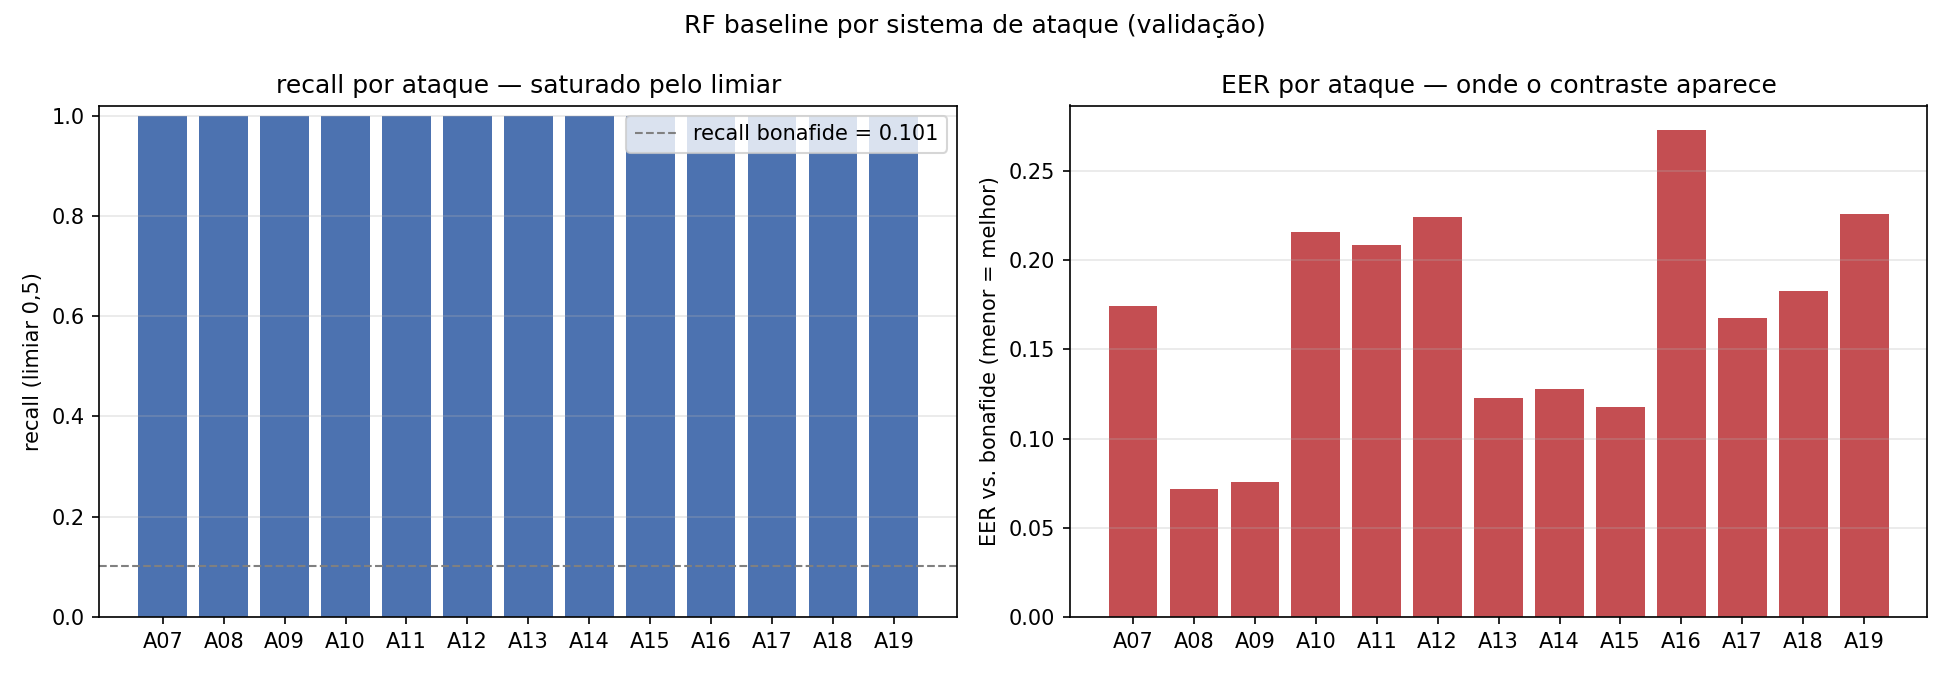
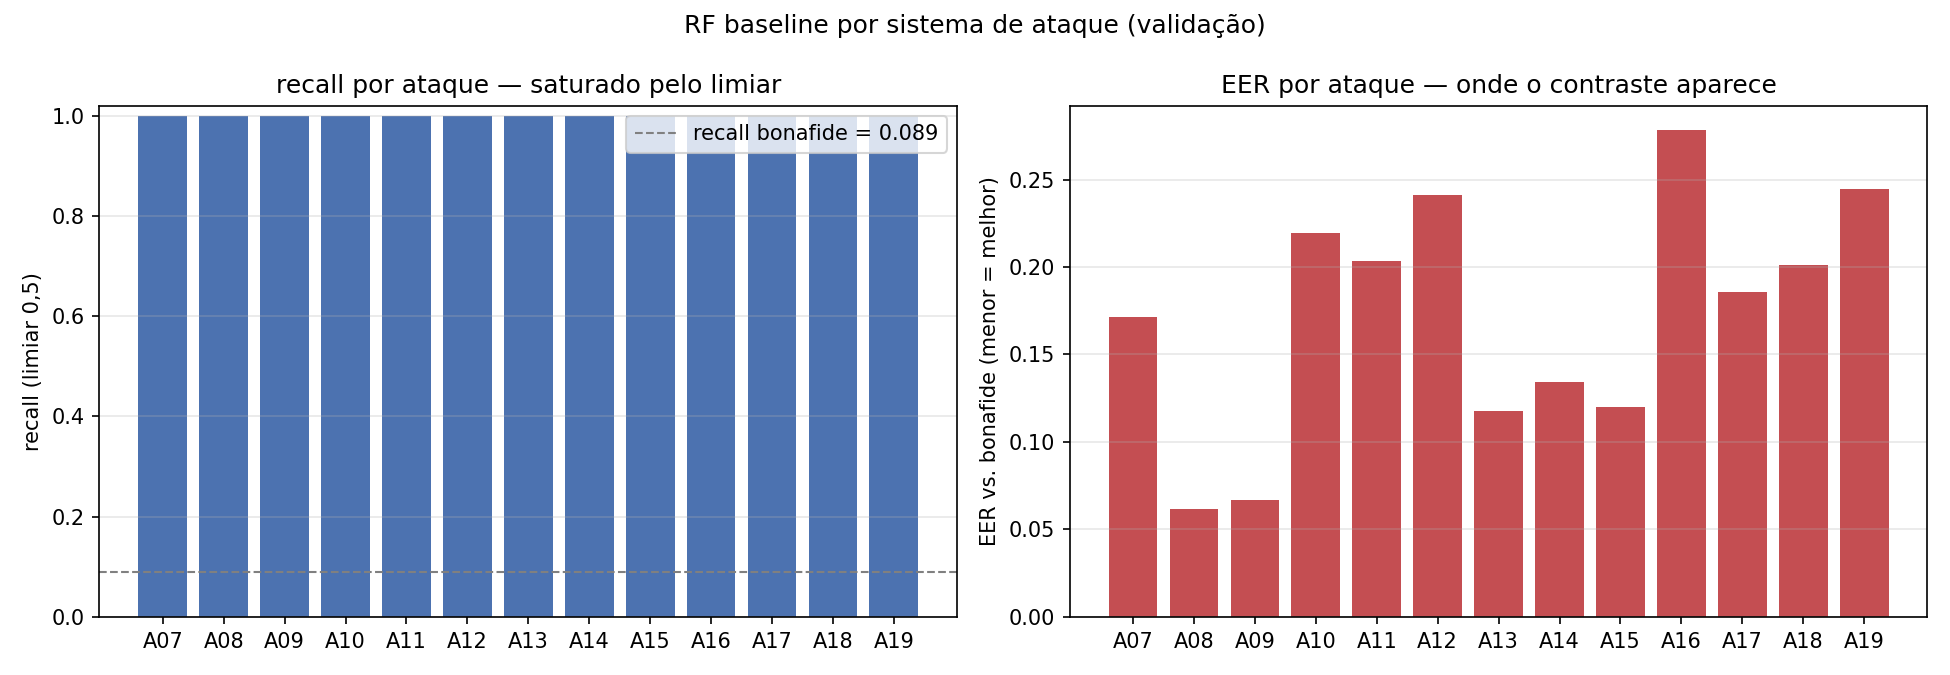
ajuste de conflito de informações dentro de config e readme

diff --git a/scripts/gerar_subamostra.py b/scripts/gerar_subamostra.py
@@ -21,6 +21,13 @@ ESTRATIFICAÇÃO (todos os requisitos textuais do orientador):
     estrato vazio, é o próprio estrato bonafide (7 codecs × bonafide + 7 codecs
     × 13 ataques de spoof = 98 estratos no universo eval).
 
+PARÂMETROS (config.yaml, bloco `experimento`):
+    alvo    <- experimento.tamanho_subamostra
+    saída   <- experimento.caminho_subamostra
+    estratos<- experimento.estratificacao_subamostra
+    A constante PISO permanece no código de propósito: é regra de IMPLEMENTAÇÃO
+    da alocação (nenhum estrato pode zerar), não parâmetro metodológico.
+
 REGRA DE ALOCAÇÃO (documentação obrigatória):
     Proporcional ao tamanho de cada estrato no treino completo, pelo método do
     MAIOR RESTO (largest remainder): aloca floor(alvo * n_estrato / n_treino) a
@@ -54,11 +61,11 @@ import matplotlib
 matplotlib.use("Agg")
 import matplotlib.pyplot as plt
 
+from src.utils.config import carregar_config
 from src.utils.seeds import fixar_seeds
 
 RAIZ = Path(__file__).resolve().parents[1]
-ALVO = 30_000
-PISO = 1
+PISO = 1   # regra de implementação (ver docstring) — não é parâmetro do config
 
 
 def alocar_maior_resto(tamanhos: pd.Series, alvo: int, piso: int) -> pd.Series:
@@ -88,12 +95,15 @@ def alocar_maior_resto(tamanhos: pd.Series, alvo: int, piso: int) -> pd.Series:
 
 
 def main() -> None:
-    semente = fixar_seeds(42)
+    cfg = carregar_config(RAIZ)
+    semente = fixar_seeds(cfg["semente"])
+    alvo = int(cfg["experimento"]["tamanho_subamostra"])
+    colunas_estrato = list(cfg["experimento"]["estratificacao_subamostra"])
+    saida = RAIZ / cfg["experimento"]["caminho_subamostra"]
 
     split = pd.read_csv(RAIZ / "data" / "processed" / "split.csv")
     labels = pd.read_csv(RAIZ / "data" / "processed" / "labels.csv",
-                         usecols=["arquivo", "classe_binaria", "codec",
-                                  "ataque", "fase"])
+                         usecols=["arquivo", "fase", *colunas_estrato])
 
     treino = split[split["conjunto"] == "treino"].merge(labels, on="arquivo",
                                                         how="inner")
@@ -102,16 +112,15 @@ def main() -> None:
     if not (treino["fase"] == "eval").all():
         raise SystemExit("FALHA: split de treino contém linhas fora do universo eval.")
 
-    print(f"Treino completo: {len(treino)} | alvo da subamostra: {ALVO}")
+    print(f"Treino completo: {len(treino)} | alvo da subamostra: {alvo}")
 
-    # ---- Estratos: classe_binaria × codec × ataque ---------------------------
-    treino["estrato"] = (treino["classe_binaria"].astype(str) + "|" +
-                         treino["codec"] + "|" + treino["ataque"])
+    # ---- Estratos (config: experimento.estratificacao_subamostra) ------------
+    treino["estrato"] = treino[colunas_estrato].astype(str).agg("|".join, axis=1)
     tamanhos = treino["estrato"].value_counts().sort_index()
     print(f"Estratos: {len(tamanhos)} (menor: {tamanhos.min()}, "
           f"maior: {tamanhos.max()})")
 
-    aloc = alocar_maior_resto(tamanhos, ALVO, PISO)
+    aloc = alocar_maior_resto(tamanhos, alvo, PISO)
 
     # ---- Amostragem determinística por estrato -------------------------------
     partes = []
@@ -120,13 +129,12 @@ def main() -> None:
         partes.append(sub.sample(n=int(aloc[estrato]), random_state=semente))
     amostra = pd.concat(partes)
 
-    amostra = amostra[["arquivo", "classe_binaria", "codec", "ataque"]] \
+    amostra = amostra[["arquivo", *colunas_estrato]] \
         .sort_values("arquivo").reset_index(drop=True)
     n_final = len(amostra)
     print(f"n final da subamostra: {n_final} "
-          f"({'exato' if n_final == ALVO else 'diverge do alvo — registrado'})")
+          f"({'exato' if n_final == alvo else 'diverge do alvo — registrado'})")
 
-    saida = RAIZ / "data" / "processed" / "subamostra_30k.csv"
     amostra.to_csv(saida, index=False)
     print(f"IDs salvos em {saida}")
 
@@ -156,7 +164,7 @@ def main() -> None:
     # ---- JSON de rastreabilidade ---------------------------------------------
     split_csv = RAIZ / "data" / "processed" / "split.csv"
     registro = {
-        "alvo": ALVO,
+        "alvo": alvo,
         "n_final": n_final,
         "semente": semente,
         "escopo": "somente conjunto=='treino'; validação e teste permanecem completos",
@@ -167,7 +175,7 @@ def main() -> None:
                           "piso de 1 por estrato, excedente retirado dos maiores; "
                           "amostragem por estrato com random_state=42",
         "piso_por_estrato": PISO,
-        "piso_acionado": bool((np.floor(ALVO * tamanhos / tamanhos.sum()) == 0).any()),
+        "piso_acionado": bool((np.floor(alvo * tamanhos / tamanhos.sum()) == 0).any()),
         "maior_desvio_pct_pontos": float(desvio_max),
         "razao_spoof_bonafide_treino": round(razao(treino), 4),
         "razao_spoof_bonafide_subamostra": round(razao(amostra), 4),

diff --git a/scripts/diagnostico_composicao_dataset.py b/scripts/diagnostico_composicao_dataset.py
@@ -4,18 +4,18 @@ Diagnóstico B4 — Composição do dataset (fase, trim, codec)
 
 SÓ LÊ E REPORTA. Não altera pipeline, não treina, não toca no teste.
 
-MOTIVAÇÃO:
-    O config.yaml declara o dataset como "eval completo (181.566)", mas a
-    inspeção do trial_metadata.txt mostrou que 181.566 NÃO é o conjunto eval:
-    é a soma de eval (148.176) + progress (16.464) + hidden (16.926). O
+MOTIVAÇÃO (histórica — a decisão já foi tomada):
+    O config.yaml da época declarava o dataset como o total bruto de 181.566,
+    mas a inspeção do trial_metadata.txt mostrou que 181.566 NÃO é o conjunto
+    eval: é a soma de eval (148.176) + progress (16.464) + hidden (16.926). O
     subconjunto 'hidden' tem pré-processamento distinto (trim == 'only_speech',
     silêncio pré-cortado na origem), o que contamina qualquer análise que
     dependa de proporção de fala/silêncio. O conjunto oficialmente pontuado do
     ASVspoof 2021 LA é fase == 'eval'.
 
-    Este script quantifica essa composição e gera a evidência para a decisão
-    metodológica (TODO 9.3 no config.yaml) — que é do orientador, não deste
-    código.
+    Este script quantifica essa composição e gerou a evidência para a decisão
+    metodológica — hoje APROVADA pelo orientador e registrada no config.yaml
+    (dataset.fase: 'eval').
 
 SAÍDAS:
     results/metricas/composicao_fase.csv
@@ -100,9 +100,9 @@ def main() -> None:
    banda estreita (teto ~4 kHz): alaw, ulaw, gsm, pstn = {int(labels['codec'].isin(['alaw','ulaw','gsm','pstn']).sum())} ({100*labels['codec'].isin(['alaw','ulaw','gsm','pstn']).mean():.0f}%)
    banda larga   (>4 kHz):       g722, opus, none      = {int(labels['codec'].isin(['g722','opus','none']).sum())} ({100*labels['codec'].isin(['g722','opus','none']).mean():.0f}%)
 
-4. A decisão de filtrar (ou não) para fase=='eval' é METODOLÓGICA e está
-   registrada como TODO no config.yaml (seção dataset). Este script apenas
-   produz a evidência; não filtra nada.
+4. A decisão de filtrar para fase=='eval' é METODOLÓGICA, foi APROVADA pelo
+   orientador e está registrada no config.yaml (dataset.fase: 'eval'). Este
+   script apenas produz a evidência; não filtra nada.
 """)
     print(f"CSVs salvos em {DIR_MET}")
 

diff --git a/scripts/curva_aprendizado_rf.py b/scripts/curva_aprendizado_rf.py
@@ -7,12 +7,13 @@ treino e avalia SEMPRE no mesmo split de validação. O teste continua lacrado.
 Não altera features, não re-extrai nada, não implementa a subamostra do SVM.
 
 OBJETIVO:
-    O SVM-RBF é O(n²)–O(n³) e não roda nos ~127k de treino; a recomendação
-    pendente (TODO 9.2 no config.yaml) é uma subamostra estratificada (~30k)
-    compartilhada por RF, SVM e CNN. Esta curva responde à objeção da banca de
-    que "o SVM viu menos dado": se o desempenho do RF SATURA antes de 127k,
-    subamostrar não prejudica a comparação. Isto é EVIDÊNCIA para a decisão,
-    não a decisão em si.
+    O SVM-RBF é O(n²)–O(n³) e não roda nos ~103k de treino do eval; a decisão
+    APROVADA (bloco `experimento` do config.yaml) é uma subamostra
+    estratificada (~30k) compartilhada por RF, SVM e CNN. Esta curva responde
+    à objeção da banca de que "o SVM viu menos dado": o RF NÃO satura antes do
+    treino completo, e é exatamente essa evidência que justifica o braço de
+    referência (quantificar o custo da subamostra). Isto é EVIDÊNCIA para a
+    decisão, não a decisão em si.
 
 PROTOCOLO:
     Para cada tamanho em [5.000, 10.000, 20.000, 40.000, 80.000, TODOS]:
@@ -46,6 +47,7 @@ from sklearn.ensemble import RandomForestClassifier
 from sklearn.metrics import f1_score
 from sklearn.model_selection import train_test_split
 
+from src.utils.config import carregar_config
 from src.utils.seeds import fixar_seeds
 from src.data.split import carregar_dados_split, colunas_features
 from src.models.treinar_rf import calcular_eer
@@ -75,7 +77,8 @@ def subamostrar(treino: pd.DataFrame, n: int, semente: int) -> pd.DataFrame:
 
 
 def main() -> None:
-    semente = fixar_seeds(42)
+    cfg = carregar_config(RAIZ)
+    semente = fixar_seeds(cfg["semente"])
 
     df = carregar_dados_split(RAIZ)
     cols = colunas_features(df)

diff --git a/scripts/diagnostico_por_codec.py b/scripts/diagnostico_por_codec.py
@@ -33,6 +33,7 @@ import matplotlib.pyplot as plt
 from sklearn.ensemble import RandomForestClassifier
 from sklearn.metrics import f1_score, recall_score
 
+from src.utils.config import carregar_config
 from src.utils.seeds import fixar_seeds
 from src.data.split import carregar_dados_split, colunas_features
 from src.models.treinar_rf import calcular_eer
@@ -47,7 +48,8 @@ ORDEM_CODECS = ["alaw", "ulaw", "gsm", "pstn", "g722", "opus", "none"]
 
 
 def main() -> None:
-    semente = fixar_seeds(42)
+    cfg = carregar_config(RAIZ)
+    semente = fixar_seeds(cfg["semente"])
 
     # ---- Dados: features + split, depois metadados por 'arquivo' -----------
     df = carregar_dados_split(RAIZ)
@@ -144,7 +146,7 @@ Leitura: se o desempenho é sistematicamente melhor na banda larga, a evidência
 suporta a hipótese de que os artefatos discriminativos capturados por
 ZCR/centróide vivem na banda alta (>4 kHz), que os codecs telefônicos removem.
 Isso também REJEITA um fmax=4000 global (destruiria os 43% de banda larga) —
-ver TODO metodológico 9.1 no config.yaml.
+decisão RATIFICADA pelo orientador; ver o bloco `features` do config.yaml.
 
 CSV : {dir_met / 'diagnostico_por_codec.csv'}
 PNG : {dir_fig / 'diagnostico_por_codec.png'}

diff --git a/src/utils/config.py b/src/utils/config.py
@@ -1,0 +1,34 @@
+"""
+Carregamento do config.yaml — ponto único de leitura
+====================================================
+
+POR QUE ISTO EXISTE:
+    Config que ninguém lê é comentário com sintaxe YAML. Cada script que
+    hard-coda um parâmetro (ex.: `fixar_seeds(42)`) cria um ponto onde mudar o
+    config.yaml NÃO muda o experimento — exatamente o furo de reprodutibilidade
+    que o arquivo central deveria fechar. Este helper garante que módulos e
+    scripts leiam o MESMO arquivo, do MESMO jeito.
+
+USO (sempre a partir da raiz, com `python -m`):
+    RAIZ = Path(__file__).resolve().parents[1]   # em scripts/  -> parents[1]
+                                                 # em src/x/    -> parents[2]
+    cfg = carregar_config(RAIZ)
+    semente = fixar_seeds(cfg["semente"])
+"""
+
+from pathlib import Path
+
+import yaml
+
+
+def carregar_config(raiz: Path) -> dict:
+    """Lê e devolve config/config.yaml como dict.
+
+    Args:
+        raiz: raiz do projeto (a pasta que contém config/).
+
+    Returns:
+        Conteúdo do config.yaml (yaml.safe_load).
+    """
+    with open(raiz / "config" / "config.yaml", encoding="utf-8") as f:
+        return yaml.safe_load(f)

diff --git a/src/data/split.py b/src/data/split.py
@@ -61,19 +61,23 @@ from ..utils.seeds import fixar_seeds
 
 
 def criar_split(cfg: dict, raiz: Path, forcar: bool = False,
-                fase: str = "eval") -> pd.DataFrame:
+                fase: str | None = None) -> pd.DataFrame:
     """Gera (ou recarrega) a partição estratificada 70/15/15 no universo `fase`.
 
     Args:
         cfg: config.yaml carregado.
         raiz: raiz do projeto.
         forcar: se True, regera mesmo que split.csv já exista.
-        fase: universo do experimento, filtrado pela coluna `fase` do
-            labels.csv. Default 'eval' (148.176) — decisão do orientador.
+        fase: override PONTUAL do universo, para scripts de diagnóstico.
+            Se None (default), vale `cfg["dataset"]["fase"]` — 'eval'
+            (148.176), decisão do orientador. O comportamento padrão é
+            governado pelo config, não por este parâmetro.
 
     Returns:
         DataFrame [arquivo, conjunto].
     """
+    if fase is None:
+        fase = cfg["dataset"]["fase"]
     semente = fixar_seeds(cfg["semente"])
     saida = raiz / "data" / "processed" / "split.csv"
 

diff --git a/src/models/treinar_rf.py b/src/models/treinar_rf.py
@@ -27,6 +27,17 @@ DECISÕES DE PROJETO:
 4. Comparação contra o CLASSIFICADOR TRIVIAL (sempre "spoof"). Se o RF não superar
    ~89,8% de acurácia, ele não aprendeu nada — apenas descobriu a classe majoritária.
    É por isso que acurácia sozinha, aqui, é uma métrica enganosa.
+
+TODO [braço duplo — implementar quando SVM/CNN existirem]:
+   A chave `experimento.braco` do config.yaml ainda NÃO é consumida por nenhum
+   modelo. Quando o braço for implementado aqui:
+     braco == 'principal'  -> filtrar o TREINO pelos IDs de
+                              `experimento.caminho_subamostra` (subamostra ~30k
+                              compartilhada por RF, SVM e CNN);
+     braco == 'referencia' -> treinar no conjunto de treino COMPLETO do eval
+                              (103.723), para quantificar o custo da subamostra.
+   Em AMBOS os braços, VALIDAÇÃO e TESTE permanecem COMPLETOS (exigência
+   textual do orientador).
 """
 
 import hashlib

diff --git a/scripts/piloto_mascaramento_padding.py b/scripts/piloto_mascaramento_padding.py
@@ -47,12 +47,12 @@ import pandas as pd
 import matplotlib
 matplotlib.use("Agg")
 import matplotlib.pyplot as plt
-import yaml
 from sklearn.ensemble import RandomForestClassifier
 from sklearn.metrics import f1_score
 from sklearn.model_selection import train_test_split
 from tqdm import tqdm
 
+from src.utils.config import carregar_config
 from src.utils.seeds import fixar_seeds
 from src.data.preprocessamento import (aplicar_vad, carregar_audio,
                                        normalizar_amplitude,
@@ -141,8 +141,8 @@ def _extrair_ab(args: tuple) -> dict:
 
 
 def main() -> None:
-    semente = fixar_seeds(42)
-    cfg = yaml.safe_load(open(RAIZ / "config" / "config.yaml", encoding="utf-8"))
+    cfg = carregar_config(RAIZ)
+    semente = fixar_seeds(cfg["semente"])
 
     labels = pd.read_csv(RAIZ / "data" / "processed" / "labels.csv")
     piloto = amostrar_piloto(labels, N_PILOTO, semente)

diff --git a/scripts/diagnostico_vazamento_duracao.py b/scripts/diagnostico_vazamento_duracao.py
@@ -46,6 +46,7 @@ import matplotlib.pyplot as plt
 from sklearn.tree import DecisionTreeClassifier
 from sklearn.metrics import f1_score, confusion_matrix
 
+from src.utils.config import carregar_config
 from src.utils.seeds import fixar_seeds
 from src.data.split import carregar_dados_split
 from src.models.treinar_rf import calcular_eer
@@ -56,7 +57,8 @@ COLS_CORR = ["prop_fala", "centroide_media", "centroide_std",
 
 
 def main() -> None:
-    semente = fixar_seeds(42)
+    cfg = carregar_config(RAIZ)
+    semente = fixar_seeds(cfg["semente"])
 
     df = carregar_dados_split(RAIZ)
     labels = pd.read_csv(RAIZ / "data" / "processed" / "labels.csv",

diff --git a/scripts/diagnostico_por_ataque.py b/scripts/diagnostico_por_ataque.py
@@ -43,6 +43,7 @@ import matplotlib.pyplot as plt
 from sklearn.ensemble import RandomForestClassifier
 from sklearn.metrics import f1_score, recall_score
 
+from src.utils.config import carregar_config
 from src.utils.seeds import fixar_seeds
 from src.data.split import carregar_dados_split, colunas_features
 from src.models.treinar_rf import calcular_eer
@@ -51,7 +52,8 @@ RAIZ = Path(__file__).resolve().parents[1]
 
 
 def main() -> None:
-    semente = fixar_seeds(42)
+    cfg = carregar_config(RAIZ)
+    semente = fixar_seeds(cfg["semente"])
 
     df = carregar_dados_split(RAIZ)
     cols = colunas_features(df)

diff --git a/scripts/diagnostico_rf_pareado_propfala.py b/scripts/diagnostico_rf_pareado_propfala.py
@@ -46,6 +46,7 @@ import pandas as pd
 from sklearn.ensemble import RandomForestClassifier
 from sklearn.metrics import confusion_matrix, f1_score
 
+from src.utils.config import carregar_config
 from src.utils.seeds import fixar_seeds
 from src.data.split import carregar_dados_split, colunas_features
 from src.models.treinar_rf import calcular_eer
@@ -88,7 +89,8 @@ def avaliar(nome: str, y, y_pred, scores) -> dict:
 
 
 def main() -> None:
-    semente = fixar_seeds(42)
+    cfg = carregar_config(RAIZ)
+    semente = fixar_seeds(cfg["semente"])
 
     df = carregar_dados_split(RAIZ)
     cols = colunas_features(df)

diff --git a/scripts/diagnostico_limiar.py b/scripts/diagnostico_limiar.py
@@ -38,6 +38,7 @@ from sklearn.metrics import (
     roc_curve, auc, precision_recall_curve, f1_score, recall_score,
 )
 
+from src.utils.config import carregar_config
 from src.utils.seeds import fixar_seeds
 from src.data.split import carregar_dados_split, colunas_features
 from src.models.treinar_rf import calcular_eer
@@ -46,7 +47,8 @@ RAIZ = Path(__file__).resolve().parents[1]
 
 
 def main() -> None:
-    semente = fixar_seeds(42)
+    cfg = carregar_config(RAIZ)
+    semente = fixar_seeds(cfg["semente"])
 
     df = carregar_dados_split(RAIZ)
     cols = colunas_features(df)
